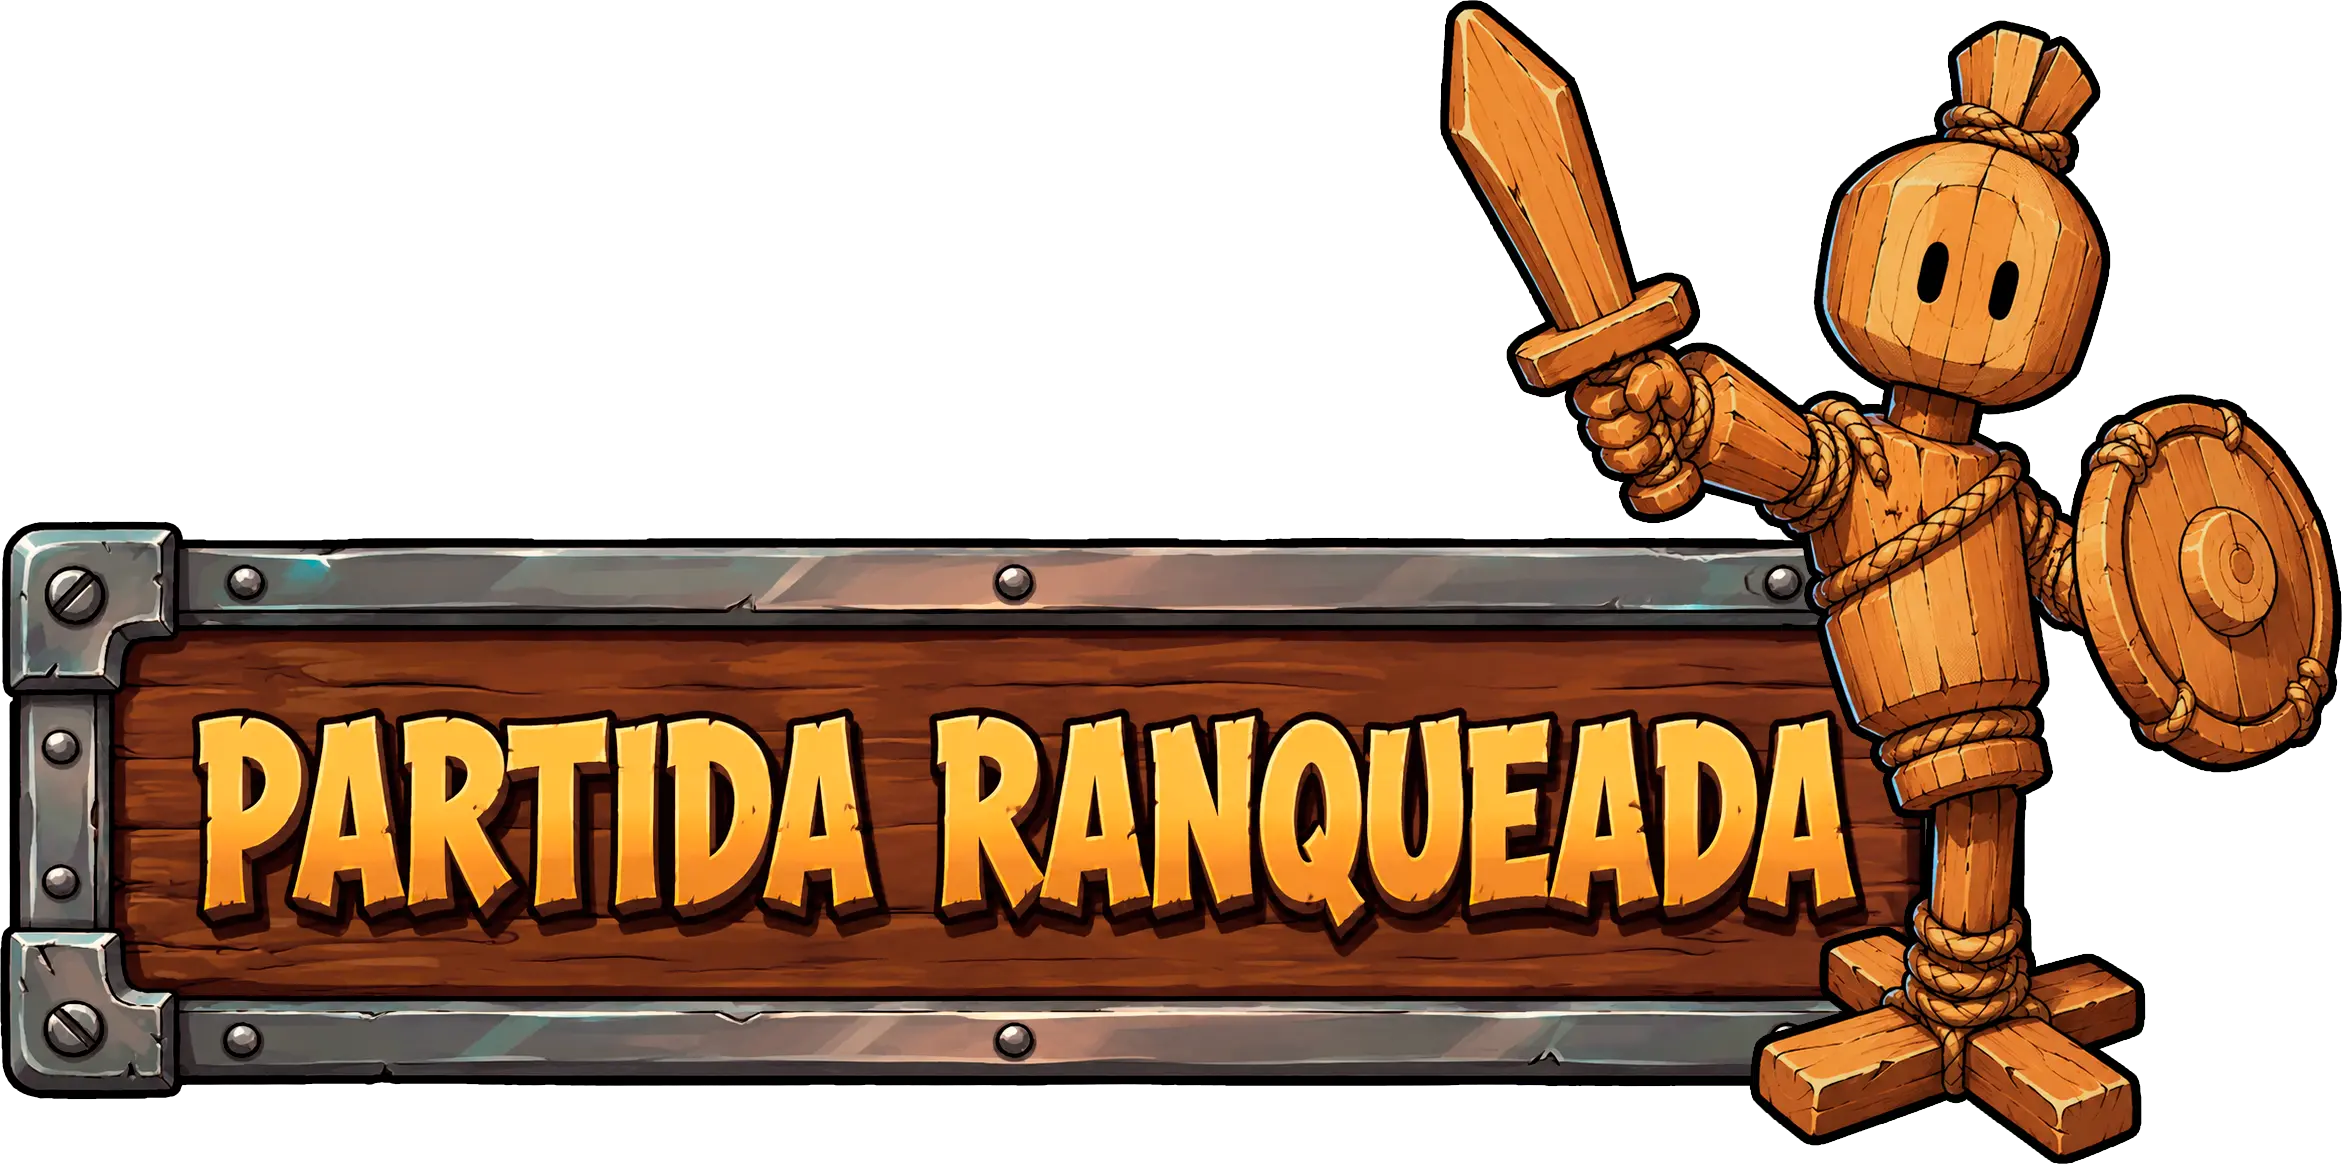
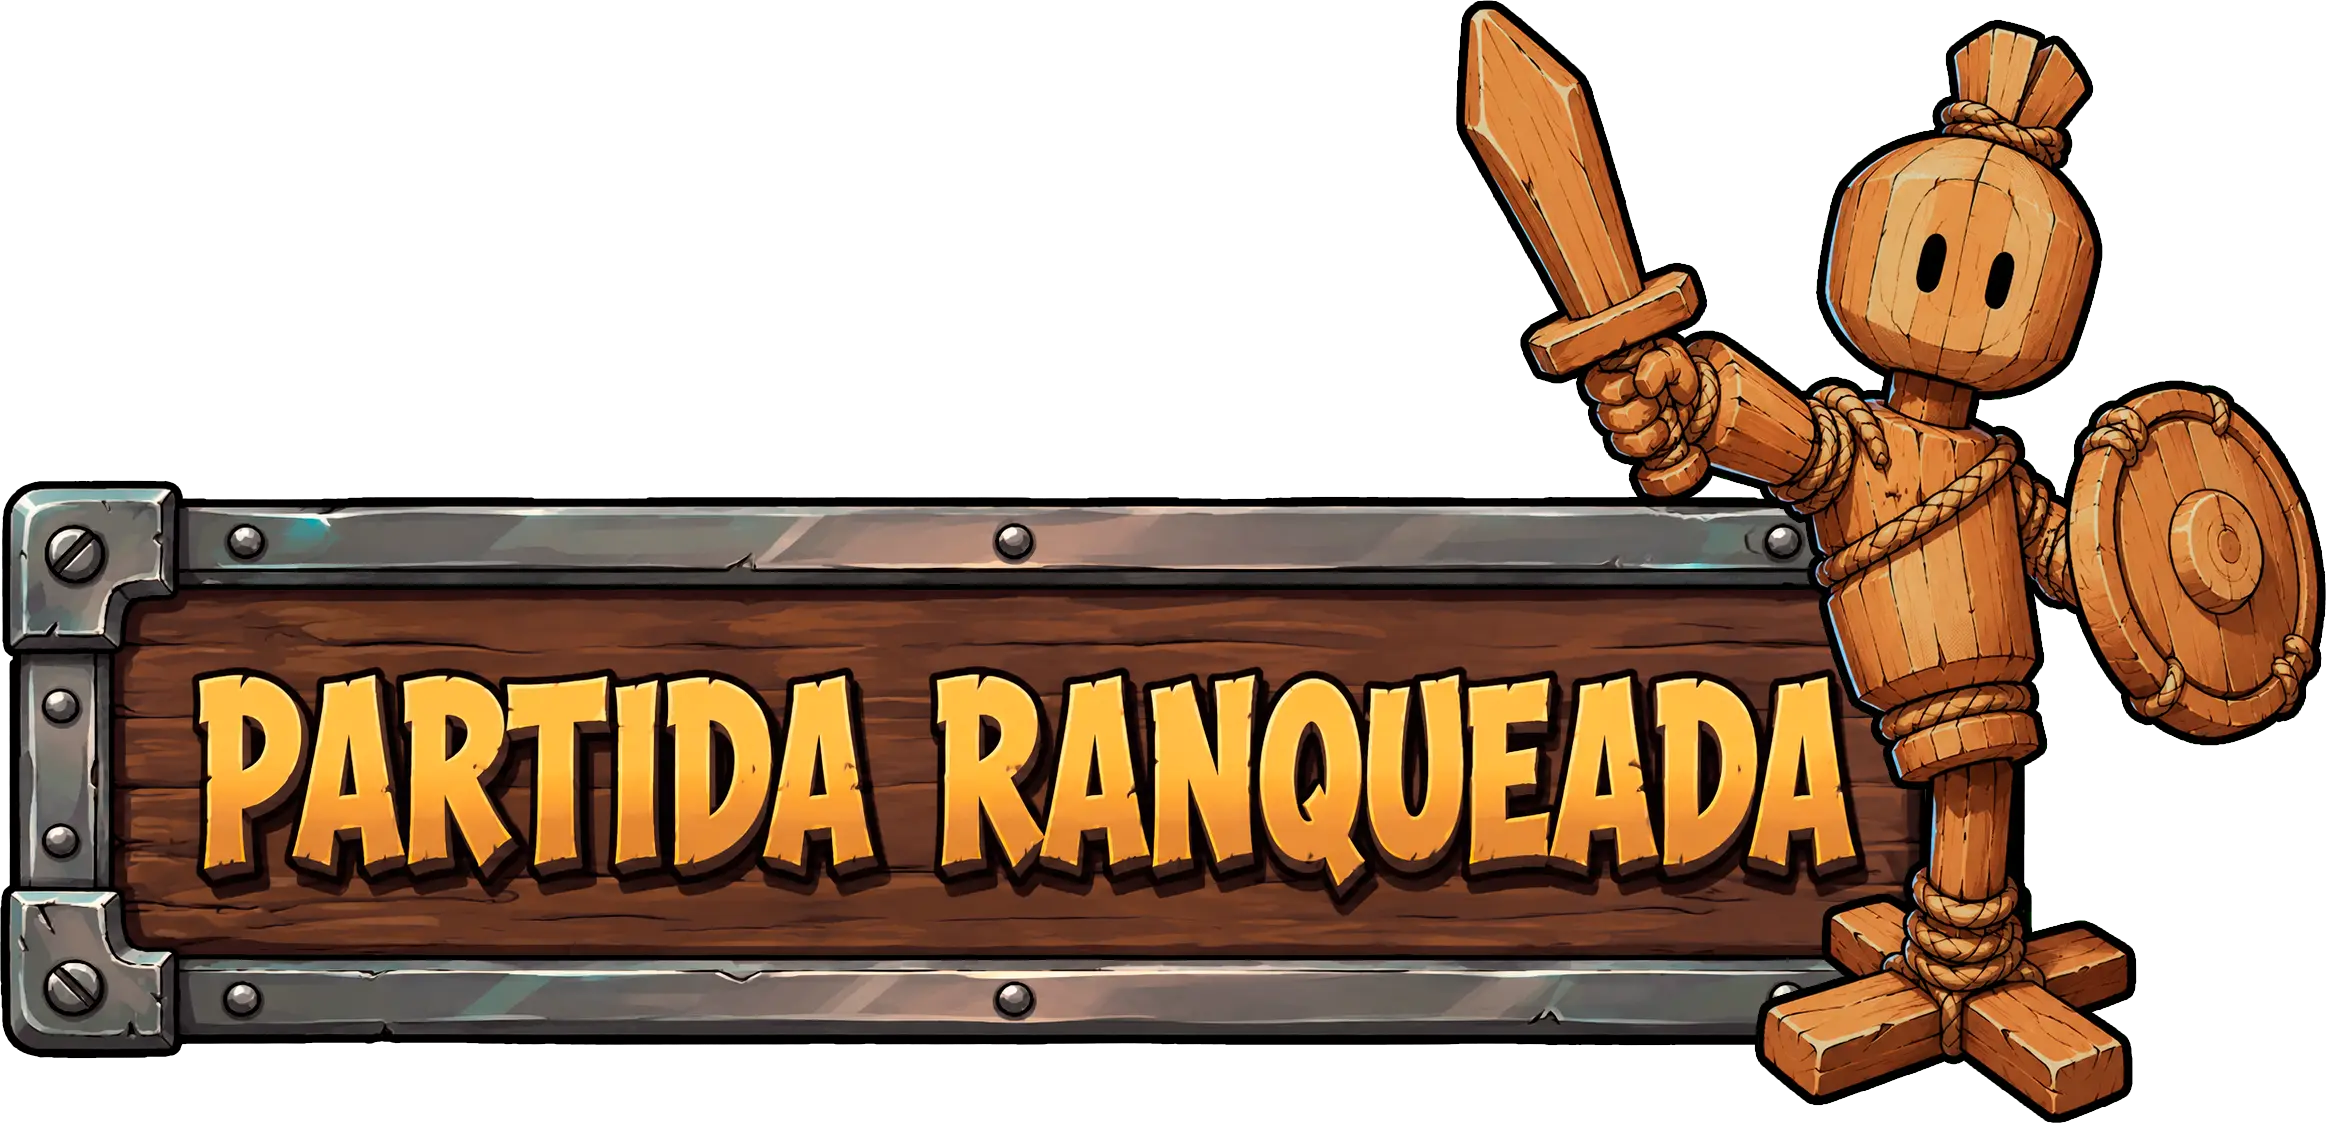
aaa

diff --git a/js/effects.js b/js/effects.js
@@ -604,7 +604,7 @@ safeLobbyEnhancement('ajustes visuais estaticos', () => {
         .lobby-mode-btn {
             position: relative !important;
             z-index: 2 !important;
-            width: min(48vw, 940px) !important;
+            width: min(29vw, 565px) !important;
             aspect-ratio: 2048 / 960 !important;
             filter: drop-shadow(8px 12px 0 rgba(25, 10, 4, 0.72))
                     drop-shadow(0 18px 22px rgba(0, 0, 0, 0.32)) !important;
@@ -829,7 +829,7 @@ safeLobbyEnhancement('ajustes visuais estaticos', () => {
             }
 
             .lobby-mode-btn {
-                width: min(94vw, 680px) !important;
+                width: min(56vw, 410px) !important;
                 aspect-ratio: 2048 / 960 !important;
             }
 
